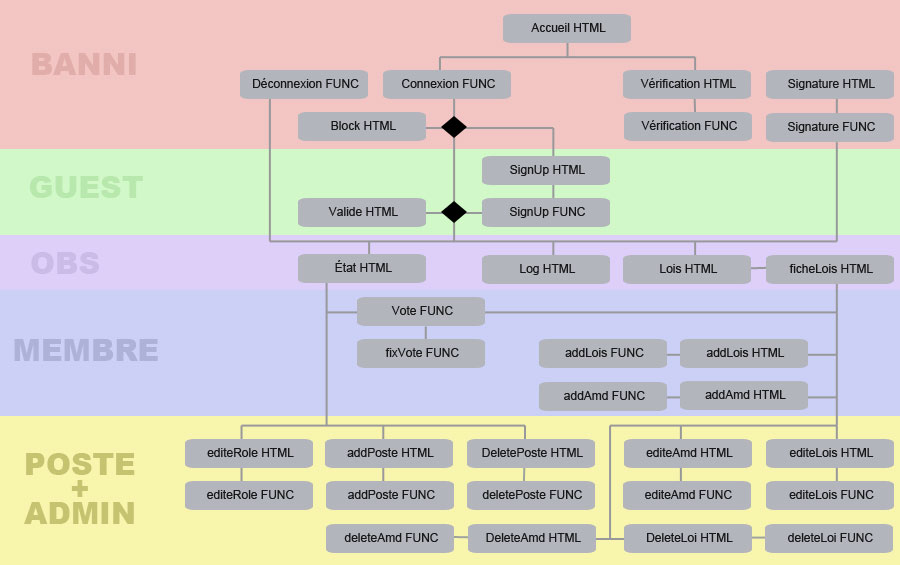
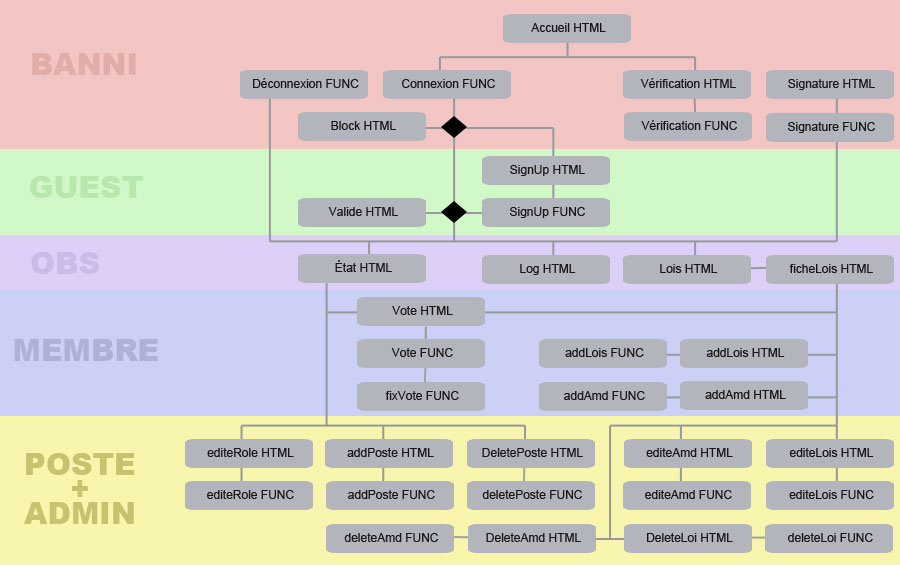
SFD add function Vote HTML

Changed region(s): [[0.3733, 0.6619, 0.56, 0.7522], [0.4356, 0.6018, 0.5289, 0.6319], [0.4356, 0.5416, 0.4978, 0.5717]]

diff --git a/doc/specification_fonctionnelle.md b/doc/specification_fonctionnelle.md
@@ -512,14 +512,33 @@ Un système de vote pseudo-anonyme avec une minime utilisation de brute force po
 	* signiature de la variable rôle.
 	* appel à l'api.
 
-### Ω Vote FUNC
-> Elle lance un appel à l'api avec les données du vote. Si succès, alors confirmer son vote en le signant a l'aide de code pin.
+### Ω Vote HTML
+> Elle affiche un formulaire pour le vote.
 
 * *Accès*
 	* A partir de la page `Ω ficheLois HTML` ou `Ω État HTML`.
 	* Accès rôle **citoyen**.
+* *Informations*
+	* **Variable interne**
+		* Id publique
+	* **Variable new**
+		* Type de vote
+		* L'identifiant du vote
+		* L'identifiant de la catégorie
+* *Actions possibles*
+	* Déclencher la fonction `Ω Vote FUNC`.
+* *Règles de gestion*
+	* Déterminer le type de vote.
+	* Validation des champs pendant submit.
+
+### Ω Vote FUNC
+> Elle lance un appel à l'api avec les données du vote. Si succès, alors confirmer son vote en le signant a l'aide de code pin.
+
+* *Accès*
+	* A partir de la page `Ω Vote HTML`.
+	* Accès rôle **citoyen**.
 * *Maquette*
-	* Composer d'un formulaire de code pin, icon, titre + Desc.
+	* En cas de succès de l'appel, composer d'un formulaire de code pin, icon, titre + Desc.
 
 ### Ω fixVote FUNC
 > Elle lance un appel à l'api avec la signature du vote.
